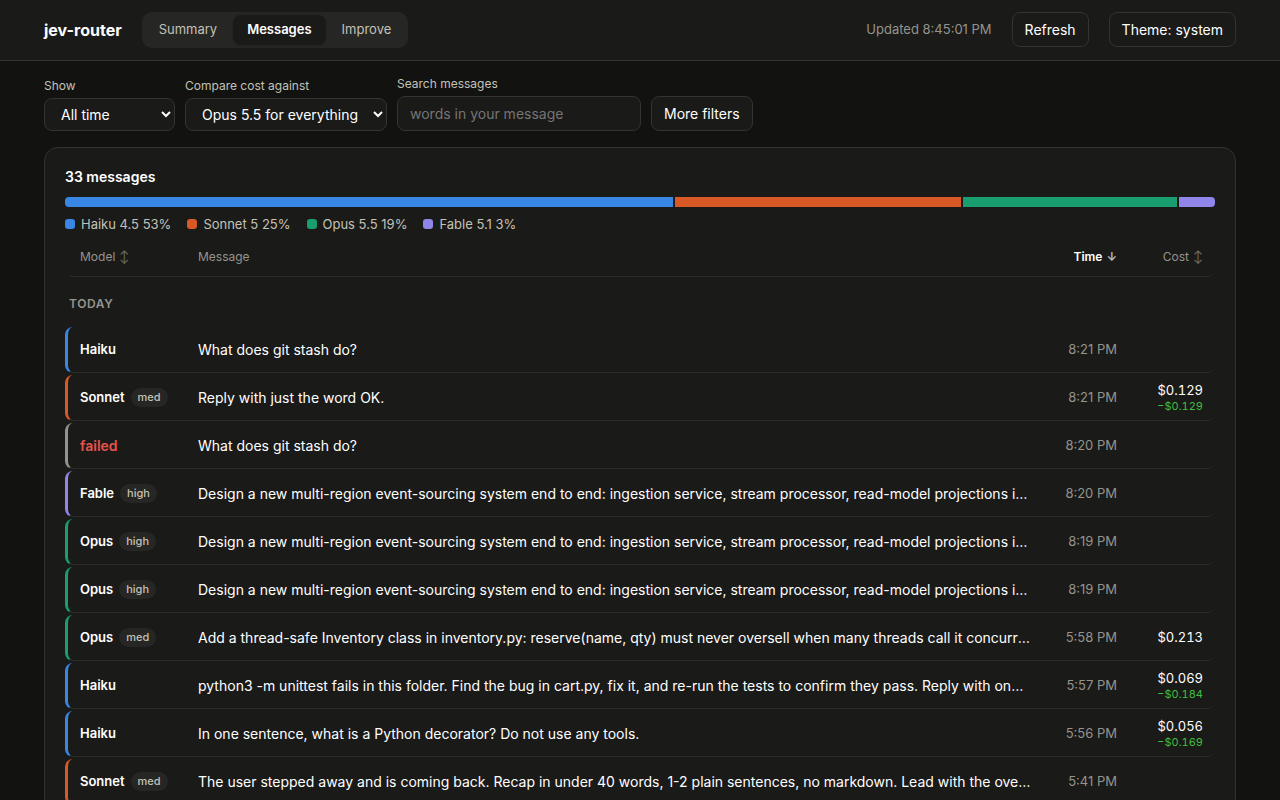
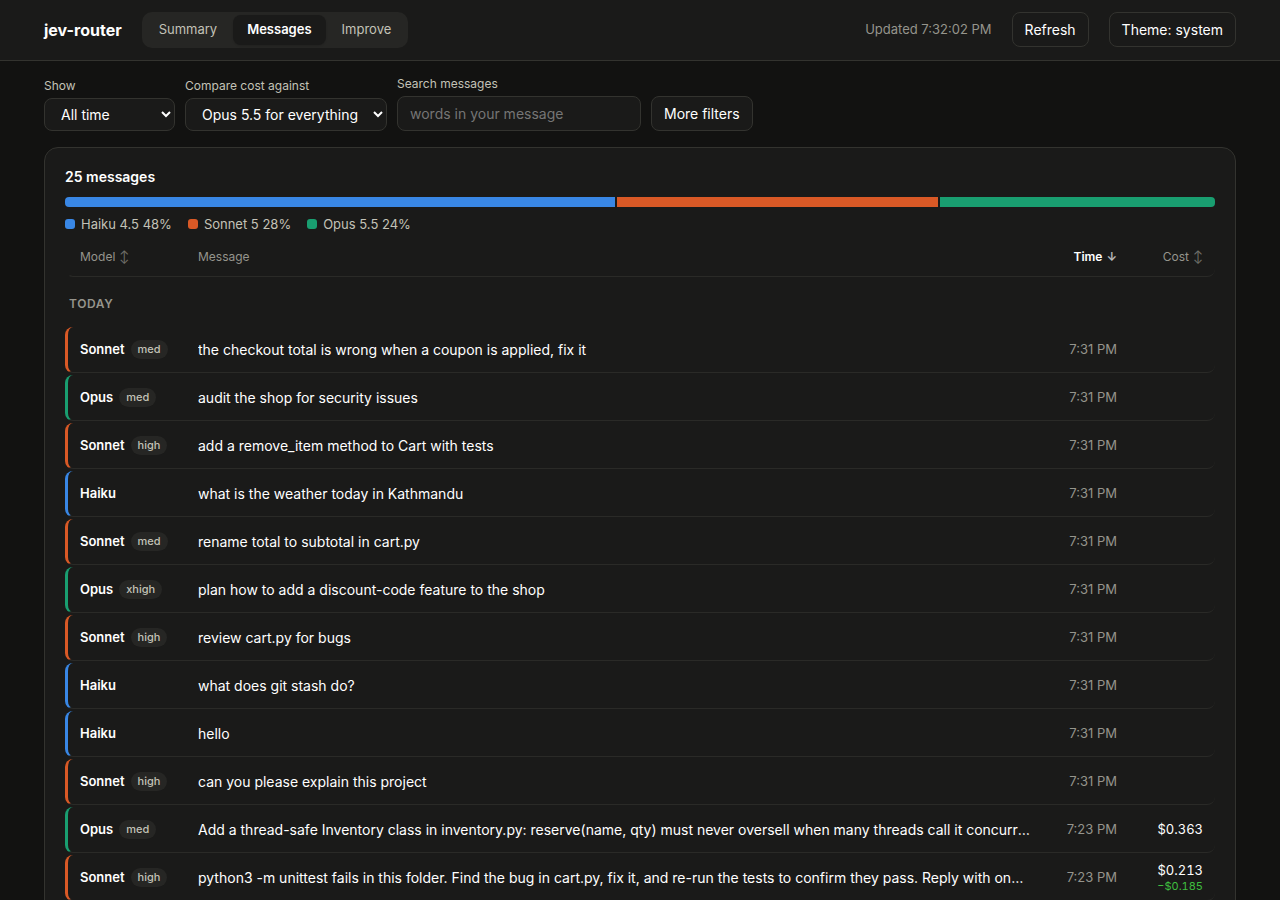
v0.5.1: dashboard screenshots of decision v2
Summary, messages list and a v2 message page, captured from demo data (the
e2e toy_shop runs plus dry-run prompts), no private prompts.

diff --git a/README.md b/README.md
@@ -90,9 +90,9 @@ Every message, with the model and effort it got and what it cost:
 
 ![Dashboard messages list](docs/img/dashboard-messages.png)
 
-Each message has a page showing the request type Jev picked, its reasoning and reading levels, Jev's yes/no answers, and any rule that changed the result (the screenshot below still shows the older tree vote):
+Each message has a page showing the request type Jev picked, its reasoning and reading levels, Jev's yes/no answers, and any rule that changed the result:
 
-![Dashboard message page: Jev answers and the tree vote](docs/img/dashboard-message.png)
+![Dashboard message page: request type, Jev answers and the rules that fired](docs/img/dashboard-message.png)
 
 ## Versioning
 
